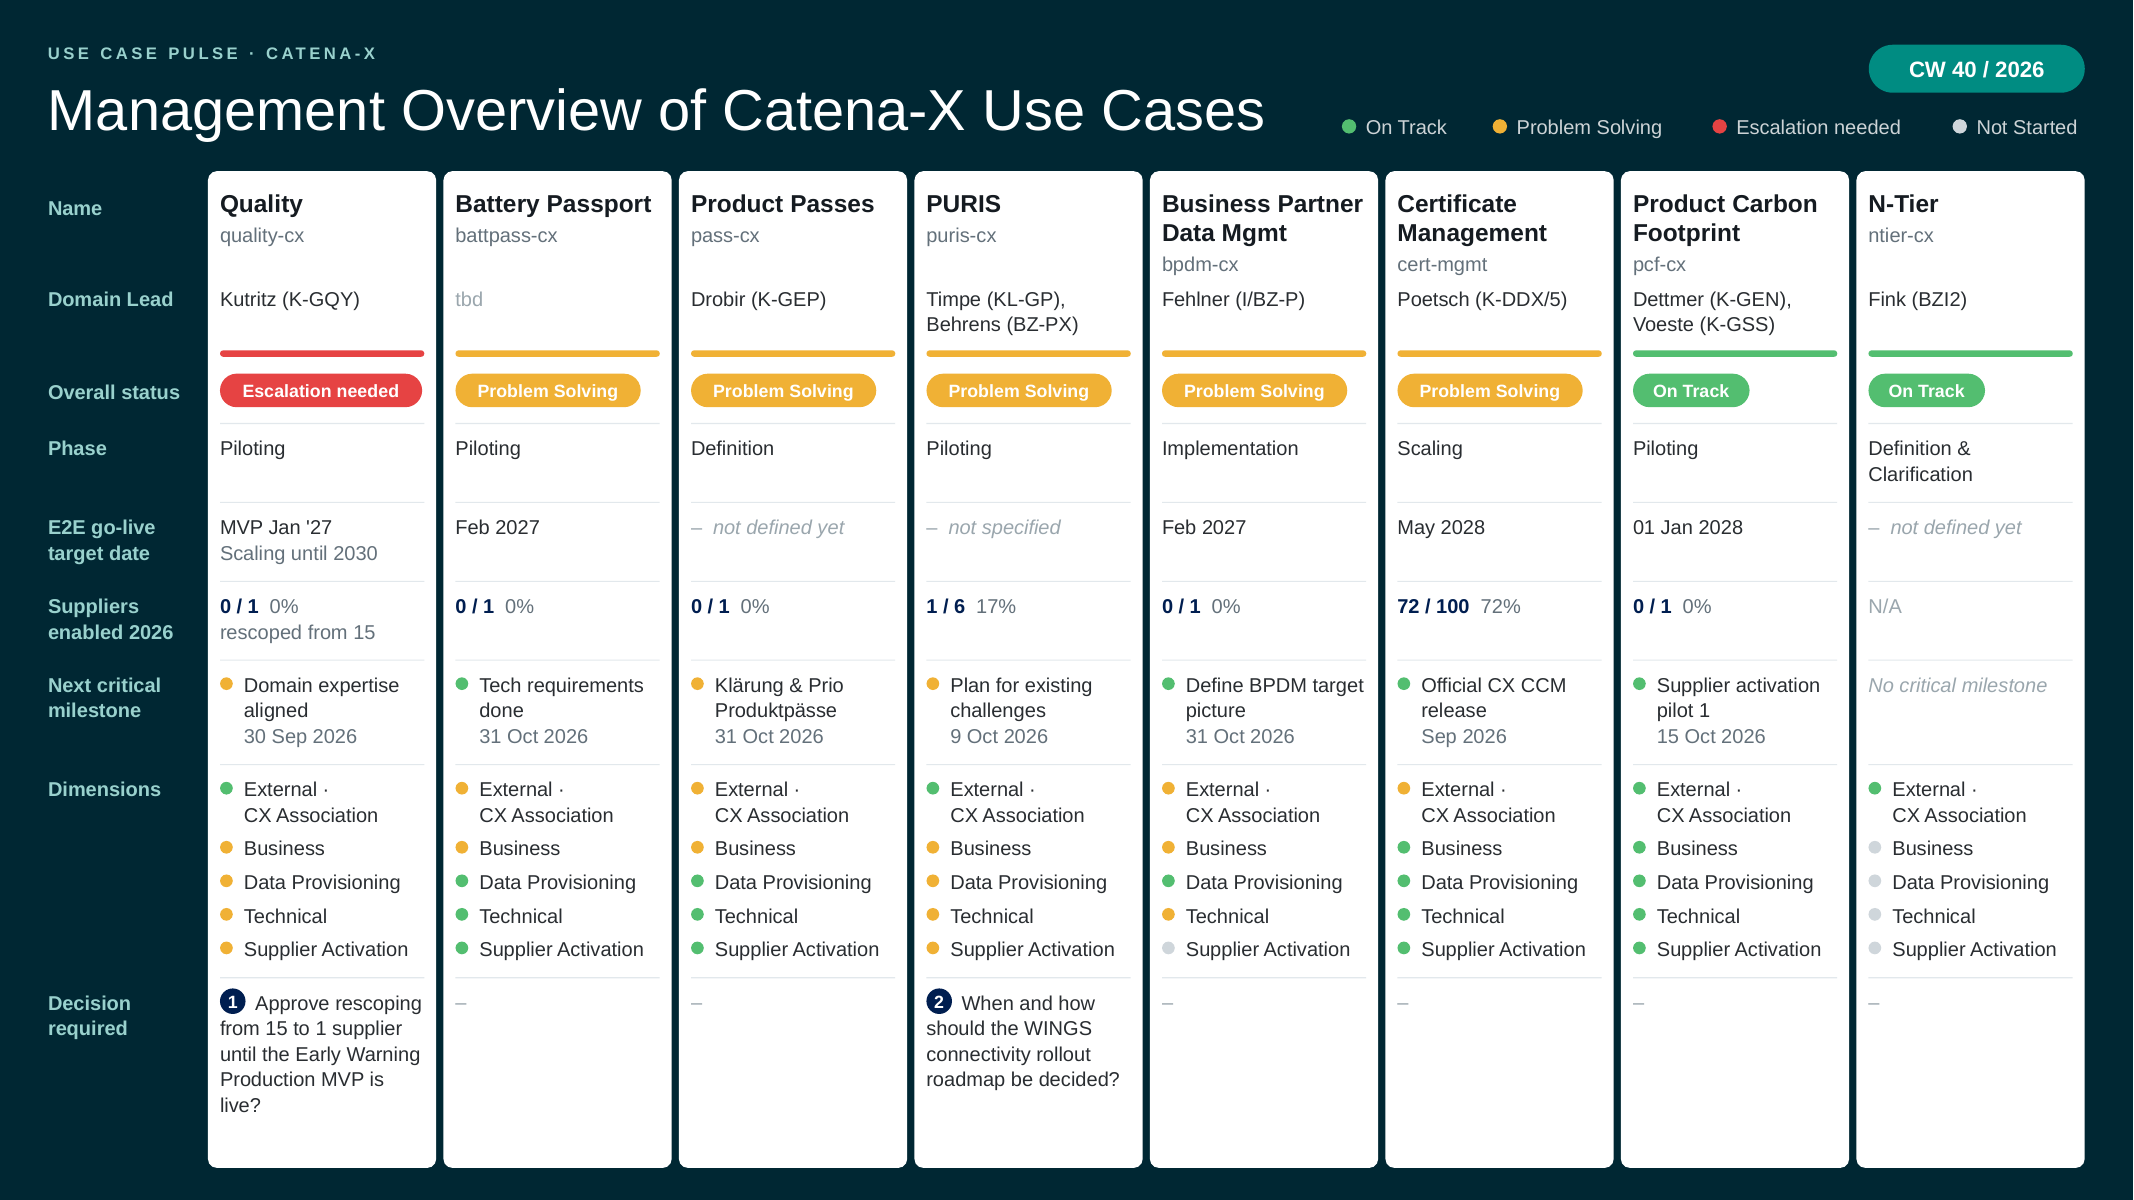
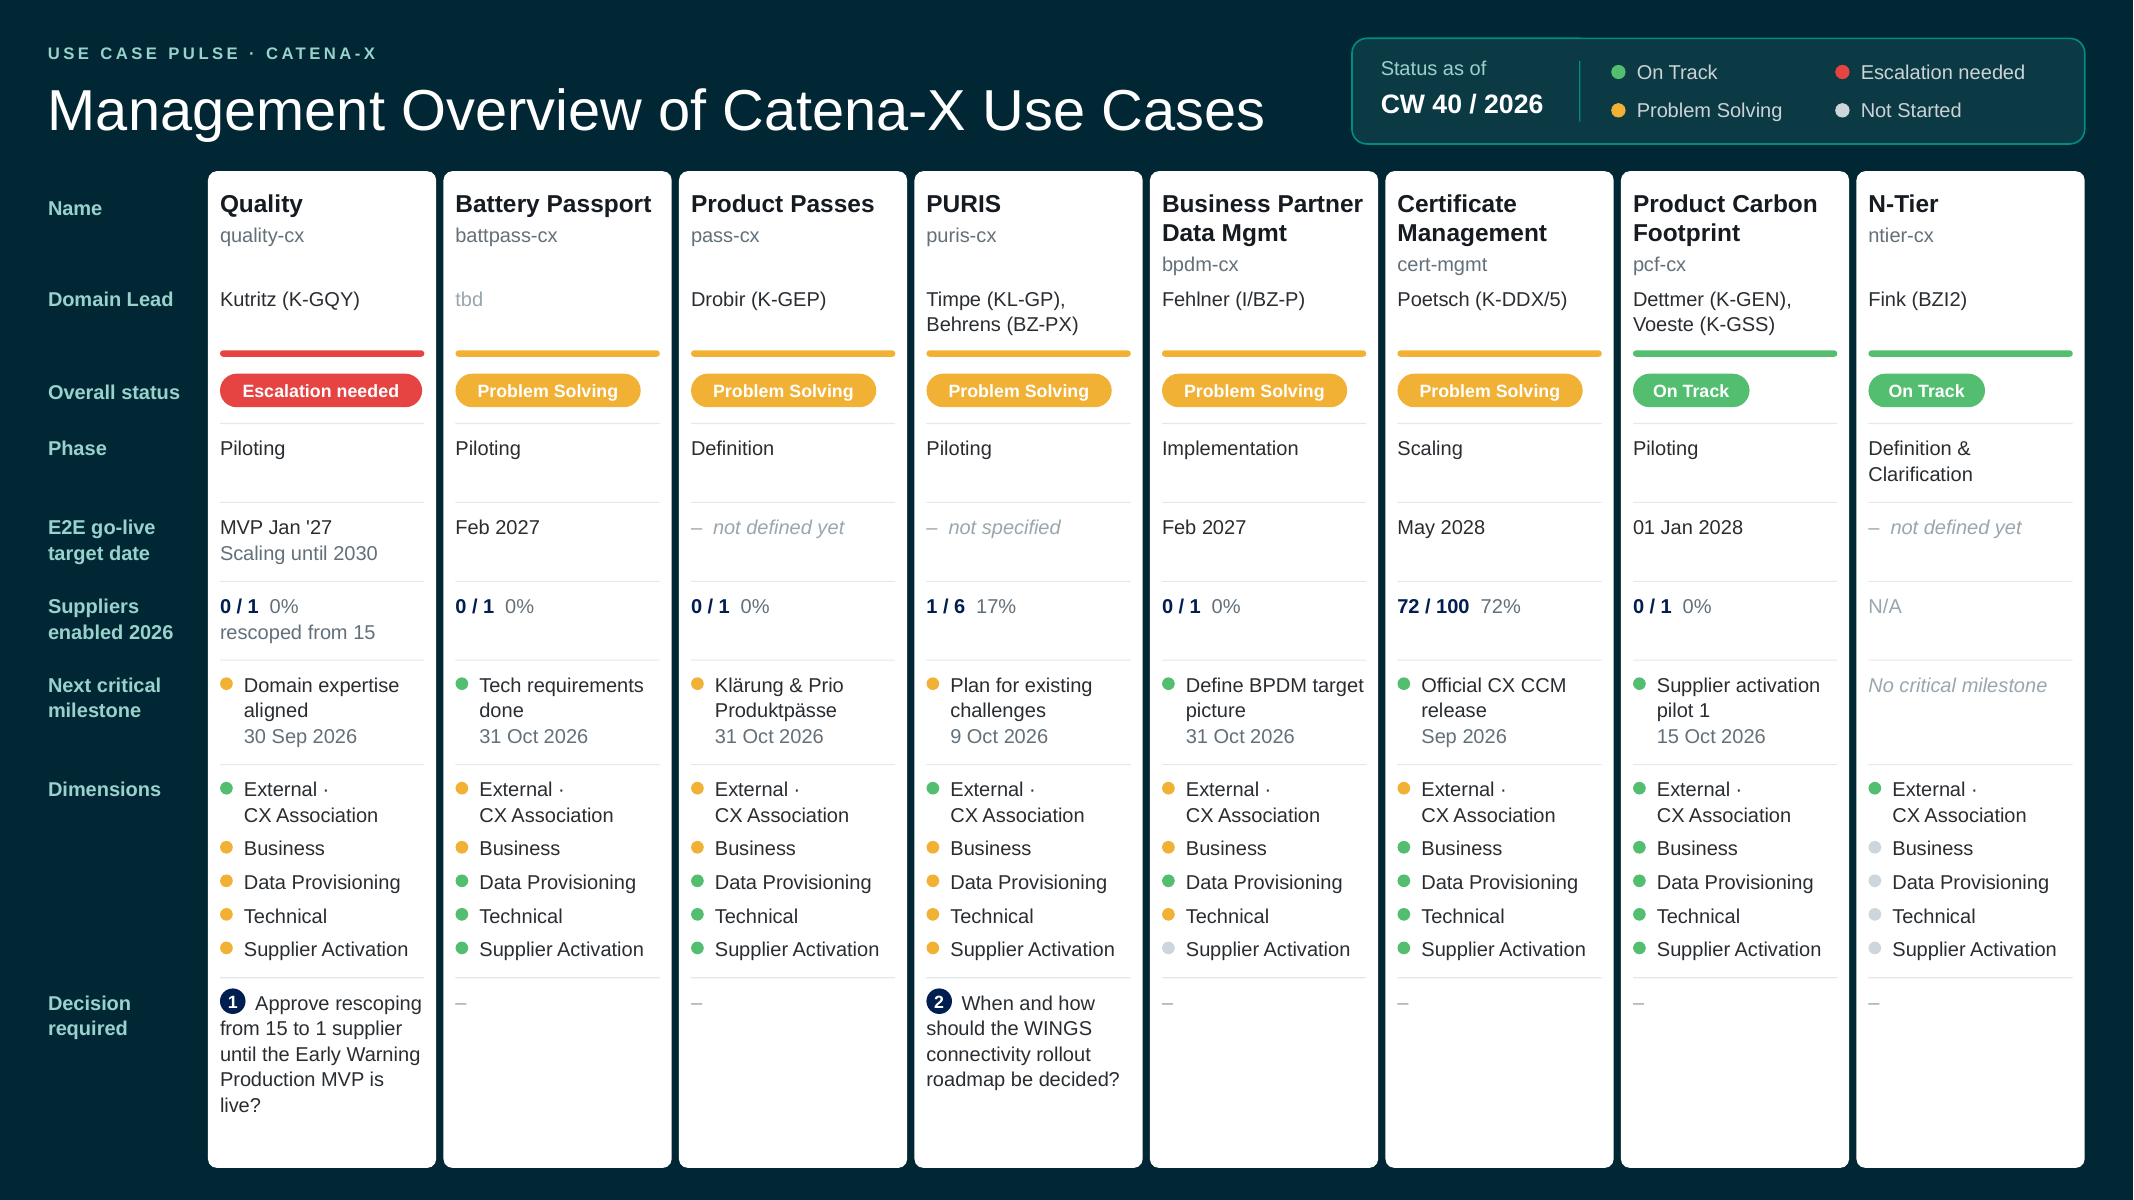
Group calendar week and status legend in one info panel
Claude-Session: https://claude.ai/code/session_01CQaEDurRGWu6YUbJ4GCCPu

Changed region(s): [[0.6186, 0.0308, 0.9897, 0.1233]]

diff --git a/scripts/build_management_overview.py b/scripts/build_management_overview.py
@@ -64,7 +64,8 @@ BG = "002733"          # Volkswagen Group dark petrol (theme dk2 / accent1)
 ON_DARK = "FFFFFF"     # headline
 ACCENT_LIGHT = "99D1CD"  # theme accent3 (mint): eyebrow and row labels
 ON_DARK_MUTED = "CCD3D6"  # theme accent5: legend text
-TEAL = "008C82"        # theme accent2: date pill
+TEAL = "008C82"        # theme accent2: info panel border and divider
+PANEL = "0B3A45"       # slightly lighter petrol for the info panel
 HEAD_FONT = "The Group HEAD Light"
 
 _FONT_DIR = "/usr/share/fonts/truetype/liberation"
@@ -213,22 +214,26 @@ HEAD_LABELS = ["Name", "Domain Lead"]
 
 # ---------------------------------------------------------------- layout
 def add_frame(s):
-    """VW-style header on the dark background: eyebrow, white Group HEAD headline, date pill, legend."""
+    """VW-style header on the dark background: eyebrow, white Group HEAD headline, info panel (CW + legend)."""
     s.text("Eyebrow", 0.30, 0.26, 6.0, 0.14, [[r("USE CASE PULSE · CATENA-X", 7.5, True, ACCENT_LIGHT, 150)]])
     s.text("Headline", 0.30, 0.44, 9.0, 0.46, [[r("Management Overview of Catena-X Use Cases", 26, False, ON_DARK)]],
            font=HEAD_FONT)
 
-    s.shape("Date Pill", 11.68, 0.28, 1.35, 0.30, "roundRect", 50000, TEAL)
-    s.text("Date", 11.68, 0.28, 1.35, 0.30, [[r("CW 40 / 2026", 10, True, "FFFFFF")]], algn="ctr")
+    # Calendar week + status legend grouped in one panel (style of the Catena-X use case overview tiles)
+    px, py, pw, ph = 8.45, 0.24, 4.58, 0.66
+    s.shape("Info Panel", px, py, pw, ph, "roundRect", 14000, PANEL, TEAL, 9525)
+    s.text("Panel Label", px + 0.18, py + 0.11, 1.25, 0.16, [[r("Status as of", F, False, ACCENT_LIGHT)]], anchor="t")
+    s.text("Panel CW", px + 0.18, py + 0.30, 1.25, 0.24, [[r("CW 40 / 2026", 12, True, ON_DARK)]], anchor="t")
+    s.shape("Panel Divider", px + 1.42, py + 0.14, 0.008, ph - 0.28, fill=TEAL)
 
-    legend = [("On Track", ON_TRACK), ("Problem Solving", PROBLEM), ("Escalation needed", ESCALATION),
-              ("Not Started", NOT_STARTED)]
-    widths = [0.15 + text_w(lbl, F) + 0.25 for lbl, _ in legend]
-    x = 13.03 - sum(widths) + 0.25
-    for (lbl, col), lw in zip(legend, widths):
-        s.shape(f"Legend Dot {lbl}", x, 0.745, 0.09, 0.09, "ellipse", fill=col)
-        s.text(f"Legend {lbl}", x + 0.15, 0.71, lw - 0.15, 0.16, [[r(lbl, F, False, ON_DARK_MUTED)]], wrap=False)
-        x += lw
+    legend = [("On Track", ON_TRACK), ("Problem Solving", PROBLEM),        # column 1
+              ("Escalation needed", ESCALATION), ("Not Started", NOT_STARTED)]  # column 2
+    for i, (lbl, col) in enumerate(legend):
+        lx = px + 1.62 + (i // 2) * 1.40
+        ly = py + 0.13 + (i % 2) * 0.24
+        s.shape(f"Legend Dot {lbl}", lx, ly + 0.035, 0.09, 0.09, "ellipse", fill=col)
+        s.text(f"Legend {lbl}", lx + 0.16, ly, 1.22, 0.16, [[r(lbl, F, False, ON_DARK_MUTED)]], anchor="t",
+               wrap=False)
 
 
 def build():
